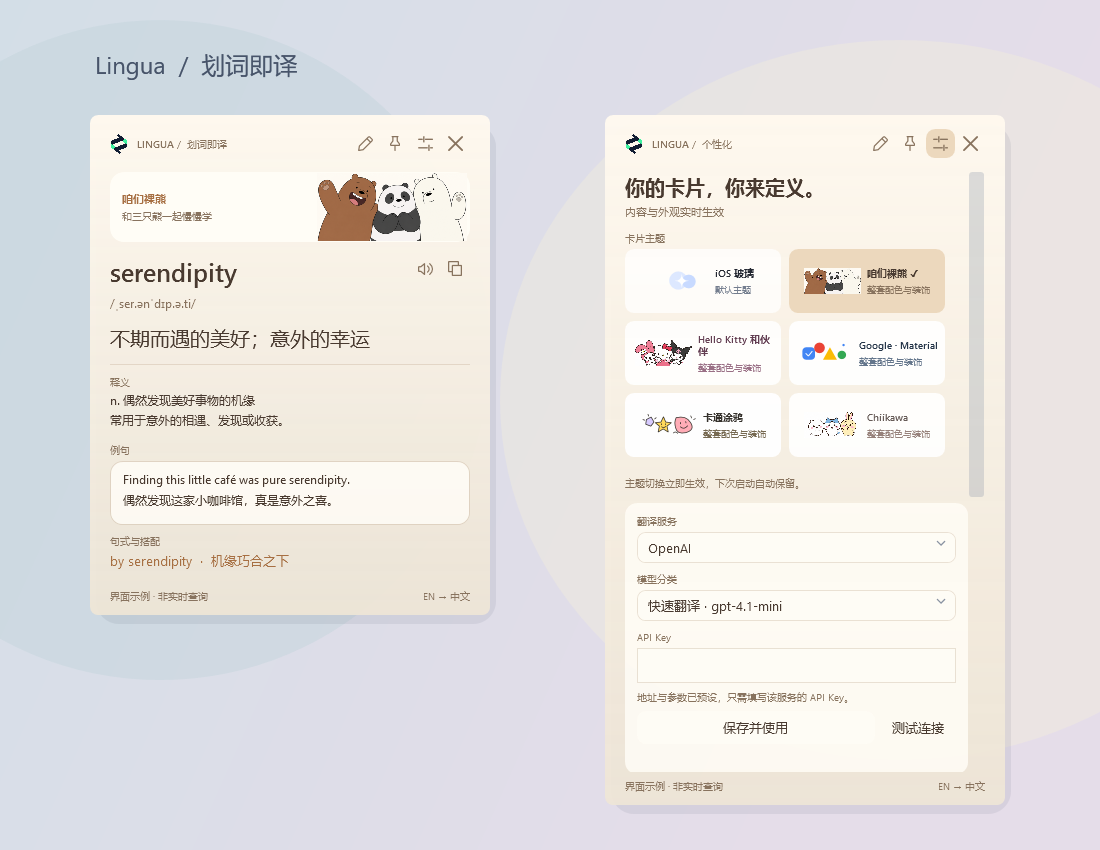
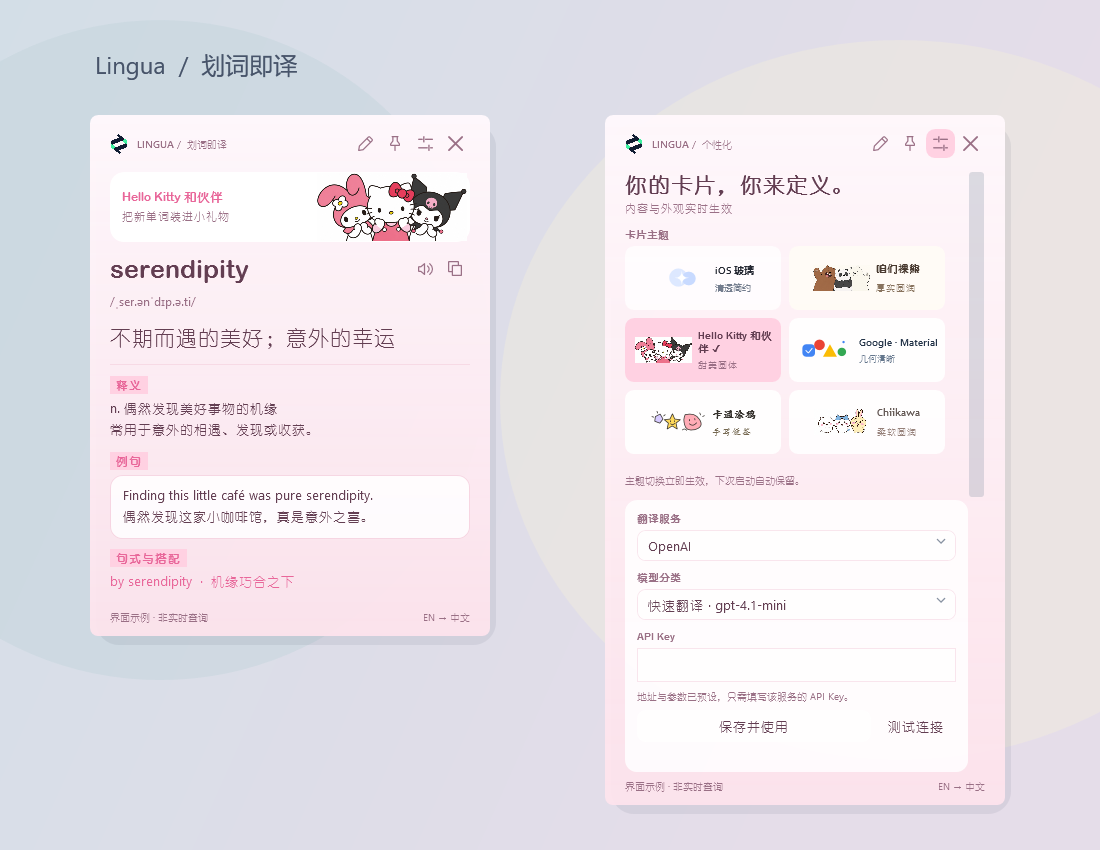
Design typography and text hierarchy for all six card themes

diff --git a/Card.xaml b/Card.xaml
@@ -7,12 +7,12 @@
   <SolidColorBrush x:Key="AccentSoftBrush" Color="#DEE9FF"/>
   <SolidColorBrush x:Key="PanelBrush" Color="#B8FFFFFF"/>
   <SolidColorBrush x:Key="LineBrush" Color="#23748195"/>
-  <Style TargetType="TextBlock"><Setter Property="Foreground" Value="{DynamicResource Ink}"/><Setter Property="TextWrapping" Value="Wrap"/><Setter Property="FontSize" Value="13"/></Style>
-  <Style x:Key="Caption" TargetType="TextBlock"><Setter Property="Foreground" Value="{DynamicResource Muted}"/><Setter Property="FontSize" Value="10"/><Setter Property="Margin" Value="0,0,0,5"/></Style>
-  <Style TargetType="Button"><Setter Property="Cursor" Value="Hand"/><Setter Property="Background" Value="Transparent"/><Setter Property="Foreground" Value="{DynamicResource Ink}"/><Setter Property="Padding" Value="7"/><Setter Property="BorderThickness" Value="0"/><Setter Property="Template"><Setter.Value><ControlTemplate TargetType="Button"><Border x:Name="b" CornerRadius="9" Background="{TemplateBinding Background}" Padding="{TemplateBinding Padding}"><ContentPresenter HorizontalAlignment="Center" VerticalAlignment="Center"/></Border><ControlTemplate.Triggers><Trigger Property="IsMouseOver" Value="True"><Setter TargetName="b" Property="Background" Value="{DynamicResource PanelBrush}"/></Trigger><Trigger Property="IsPressed" Value="True"><Setter TargetName="b" Property="Background" Value="{DynamicResource AccentSoftBrush}"/></Trigger><Trigger Property="IsKeyboardFocused" Value="True"><Setter TargetName="b" Property="BorderBrush" Value="#7194E9"/><Setter TargetName="b" Property="BorderThickness" Value="1"/></Trigger></ControlTemplate.Triggers></ControlTemplate></Setter.Value></Setter></Style>
-  <Style TargetType="CheckBox"><Setter Property="Margin" Value="0,5"/><Setter Property="FontSize" Value="12"/><Setter Property="Foreground" Value="{DynamicResource Ink}"/><Setter Property="Cursor" Value="Hand"/><Setter Property="Template"><Setter.Value><ControlTemplate TargetType="CheckBox"><DockPanel><Border x:Name="track" DockPanel.Dock="Right" Width="30" Height="18" CornerRadius="9" Background="#CCD0D7"><Ellipse x:Name="thumb" Width="14" Height="14" Fill="White" HorizontalAlignment="Left" Margin="2"/></Border><ContentPresenter VerticalAlignment="Center"/></DockPanel><ControlTemplate.Triggers><Trigger Property="IsChecked" Value="True"><Setter TargetName="track" Property="Background" Value="{DynamicResource AccentBrush}"/><Setter TargetName="thumb" Property="HorizontalAlignment" Value="Right"/></Trigger><Trigger Property="IsKeyboardFocused" Value="True"><Setter TargetName="track" Property="BorderBrush" Value="#243F76"/><Setter TargetName="track" Property="BorderThickness" Value="1"/></Trigger></ControlTemplate.Triggers></ControlTemplate></Setter.Value></Setter></Style>
+  <Style TargetType="TextBlock"><Setter Property="FontFamily" Value="{DynamicResource BodyFont}"/><Setter Property="Foreground" Value="{DynamicResource Ink}"/><Setter Property="TextWrapping" Value="Wrap"/><Setter Property="FontSize" Value="13"/></Style>
+  <Style x:Key="Caption" TargetType="TextBlock"><Setter Property="FontFamily" Value="{DynamicResource UiFont}"/><Setter Property="FontWeight" Value="SemiBold"/><Setter Property="Foreground" Value="{DynamicResource Muted}"/><Setter Property="FontSize" Value="10"/><Setter Property="Margin" Value="0,0,0,5"/></Style>
+  <Style TargetType="Button"><Setter Property="FontFamily" Value="{DynamicResource UiFont}"/><Setter Property="Cursor" Value="Hand"/><Setter Property="Background" Value="Transparent"/><Setter Property="Foreground" Value="{DynamicResource Ink}"/><Setter Property="Padding" Value="7"/><Setter Property="BorderThickness" Value="0"/><Setter Property="Template"><Setter.Value><ControlTemplate TargetType="Button"><Border x:Name="b" CornerRadius="9" Background="{TemplateBinding Background}" Padding="{TemplateBinding Padding}"><ContentPresenter HorizontalAlignment="Center" VerticalAlignment="Center"/></Border><ControlTemplate.Triggers><Trigger Property="IsMouseOver" Value="True"><Setter TargetName="b" Property="Background" Value="{DynamicResource PanelBrush}"/></Trigger><Trigger Property="IsPressed" Value="True"><Setter TargetName="b" Property="Background" Value="{DynamicResource AccentSoftBrush}"/></Trigger><Trigger Property="IsKeyboardFocused" Value="True"><Setter TargetName="b" Property="BorderBrush" Value="#7194E9"/><Setter TargetName="b" Property="BorderThickness" Value="1"/></Trigger></ControlTemplate.Triggers></ControlTemplate></Setter.Value></Setter></Style>
+  <Style TargetType="CheckBox"><Setter Property="FontFamily" Value="{DynamicResource UiFont}"/><Setter Property="Margin" Value="0,5"/><Setter Property="FontSize" Value="12"/><Setter Property="Foreground" Value="{DynamicResource Ink}"/><Setter Property="Cursor" Value="Hand"/><Setter Property="Template"><Setter.Value><ControlTemplate TargetType="CheckBox"><DockPanel><Border x:Name="track" DockPanel.Dock="Right" Width="30" Height="18" CornerRadius="9" Background="#CCD0D7"><Ellipse x:Name="thumb" Width="14" Height="14" Fill="White" HorizontalAlignment="Left" Margin="2"/></Border><ContentPresenter VerticalAlignment="Center"/></DockPanel><ControlTemplate.Triggers><Trigger Property="IsChecked" Value="True"><Setter TargetName="track" Property="Background" Value="{DynamicResource AccentBrush}"/><Setter TargetName="thumb" Property="HorizontalAlignment" Value="Right"/></Trigger><Trigger Property="IsKeyboardFocused" Value="True"><Setter TargetName="track" Property="BorderBrush" Value="#243F76"/><Setter TargetName="track" Property="BorderThickness" Value="1"/></Trigger></ControlTemplate.Triggers></ControlTemplate></Setter.Value></Setter></Style>
   <Style TargetType="TextBox"><Setter Property="Background" Value="#96FFFFFF"/><Setter Property="BorderBrush" Value="#C6D2D8E3"/><Setter Property="Padding" Value="8,6"/><Setter Property="FontSize" Value="12"/><Setter Property="Margin" Value="0,4,0,8"/></Style>
-  <Style TargetType="ComboBox"><Setter Property="FontSize" Value="12"/><Setter Property="Template"><Setter.Value><ControlTemplate TargetType="ComboBox"><Grid><ToggleButton Focusable="False" IsChecked="{Binding IsDropDownOpen, RelativeSource={RelativeSource TemplatedParent}, Mode=TwoWay}"><ToggleButton.Template><ControlTemplate TargetType="ToggleButton"><Border Background="{DynamicResource PanelBrush}" CornerRadius="8" BorderThickness="1" BorderBrush="{DynamicResource LineBrush}" Padding="10,8"><Path Data="M0 0 L4 4 L8 0" Stroke="#8892A2" StrokeThickness="1.3" HorizontalAlignment="Right"/></Border></ControlTemplate></ToggleButton.Template></ToggleButton><ContentPresenter Content="{TemplateBinding SelectionBoxItem}" Margin="11,7,28,7" IsHitTestVisible="False"/><Popup x:Name="PART_Popup" IsOpen="{TemplateBinding IsDropDownOpen}" Placement="Bottom" AllowsTransparency="True" Focusable="False" PopupAnimation="Fade"><Border Background="#F3F5F8" CornerRadius="9" Padding="5" MinWidth="200" BorderBrush="#D5DCE6" BorderThickness="1"><ScrollViewer MaxHeight="220"><ItemsPresenter/></ScrollViewer></Border></Popup></Grid></ControlTemplate></Setter.Value></Setter></Style>
+  <Style TargetType="ComboBox"><Setter Property="FontFamily" Value="{DynamicResource UiFont}"/><Setter Property="FontSize" Value="12"/><Setter Property="Template"><Setter.Value><ControlTemplate TargetType="ComboBox"><Grid><ToggleButton Focusable="False" IsChecked="{Binding IsDropDownOpen, RelativeSource={RelativeSource TemplatedParent}, Mode=TwoWay}"><ToggleButton.Template><ControlTemplate TargetType="ToggleButton"><Border Background="{DynamicResource PanelBrush}" CornerRadius="8" BorderThickness="1" BorderBrush="{DynamicResource LineBrush}" Padding="10,8"><Path Data="M0 0 L4 4 L8 0" Stroke="#8892A2" StrokeThickness="1.3" HorizontalAlignment="Right"/></Border></ControlTemplate></ToggleButton.Template></ToggleButton><ContentPresenter Content="{TemplateBinding SelectionBoxItem}" Margin="11,7,28,7" IsHitTestVisible="False"/><Popup x:Name="PART_Popup" IsOpen="{TemplateBinding IsDropDownOpen}" Placement="Bottom" AllowsTransparency="True" Focusable="False" PopupAnimation="Fade"><Border Background="#F3F5F8" CornerRadius="9" Padding="5" MinWidth="200" BorderBrush="#D5DCE6" BorderThickness="1"><ScrollViewer MaxHeight="220"><ItemsPresenter/></ScrollViewer></Border></Popup></Grid></ControlTemplate></Setter.Value></Setter></Style>
   <Style TargetType="Slider"><Setter Property="Height" Value="24"/><Setter Property="Template"><Setter.Value><ControlTemplate TargetType="Slider"><Grid><Border Height="3" Background="#D4DAE3" CornerRadius="2"/><Track x:Name="PART_Track"><Track.DecreaseRepeatButton><RepeatButton Command="Slider.DecreaseLarge" Focusable="False"><RepeatButton.Template><ControlTemplate><Border Height="3" Background="{DynamicResource AccentBrush}" CornerRadius="2"/></ControlTemplate></RepeatButton.Template></RepeatButton></Track.DecreaseRepeatButton><Track.Thumb><Thumb Width="18" Height="18"><Thumb.Template><ControlTemplate><Ellipse Fill="#FFFFFF" Stroke="#C2CDDC" StrokeThickness="1"/></ControlTemplate></Thumb.Template></Thumb></Track.Thumb><Track.IncreaseRepeatButton><RepeatButton Command="Slider.IncreaseLarge" Focusable="False"><RepeatButton.Template><ControlTemplate><Border Background="Transparent"/></ControlTemplate></RepeatButton.Template></RepeatButton></Track.IncreaseRepeatButton></Track></Grid></ControlTemplate></Setter.Value></Setter></Style>
  </Border.Resources>
  <StackPanel>
@@ -28,13 +28,13 @@
      <TextBlock x:Name="Phonetic" Foreground="{DynamicResource Muted}" FontSize="12" Margin="0,0,0,12"/>
      <Border x:Name="Editor" Background="{DynamicResource PanelBrush}" CornerRadius="12" Padding="8" Margin="0,0,0,10" Visibility="Collapsed"><StackPanel><TextBox x:Name="Input" AcceptsReturn="True" MaxLength="2000" Height="66" TextWrapping="Wrap" VerticalScrollBarVisibility="Auto"/><Button x:Name="Submit" Content="翻译  ↵" HorizontalAlignment="Right" Padding="14,6" Background="{DynamicResource PanelBrush}"/></StackPanel></Border>
      <StackPanel x:Name="TranslationSection" Margin="0,0,0,13"><TextBlock x:Name="Translation" Text="选中一段文字，翻译会自动浮现。" FontSize="20" FontWeight="Medium" LineHeight="28"/></StackPanel>
-     <Border x:Name="DetailsSection" BorderBrush="{DynamicResource LineBrush}" BorderThickness="0,1,0,0" Padding="0,11,0,0" Margin="0,0,0,11"><StackPanel><TextBlock Text="释义" Style="{StaticResource Caption}"/><TextBlock x:Name="Details" LineHeight="20"/></StackPanel></Border>
-     <StackPanel x:Name="ExamplesSection" Margin="0,0,0,10"><TextBlock Text="例句" Style="{StaticResource Caption}"/><Border x:Name="ExampleSurface" Background="{DynamicResource PanelBrush}" BorderBrush="{DynamicResource LineBrush}" BorderThickness="1" CornerRadius="12" Padding="12,10"><TextBlock x:Name="Examples" LineHeight="21"/></Border></StackPanel>
-     <StackPanel x:Name="StructureSection" Margin="0,0,0,10"><TextBlock Text="句式与搭配" Style="{StaticResource Caption}"/><TextBlock x:Name="Structure" Foreground="{DynamicResource AccentBrush}" LineHeight="20"/></StackPanel>
+     <Border x:Name="DetailsSection" BorderBrush="{DynamicResource LineBrush}" BorderThickness="0,1,0,0" Padding="0,11,0,0" Margin="0,0,0,11"><StackPanel><TextBlock x:Name="DetailsCaption" Text="释义" Style="{StaticResource Caption}"/><TextBlock x:Name="Details" LineHeight="20"/></StackPanel></Border>
+     <StackPanel x:Name="ExamplesSection" Margin="0,0,0,10"><TextBlock x:Name="ExamplesCaption" Text="例句" Style="{StaticResource Caption}"/><Border x:Name="ExampleSurface" Background="{DynamicResource PanelBrush}" BorderBrush="{DynamicResource LineBrush}" BorderThickness="1" CornerRadius="12" Padding="12,10"><TextBlock x:Name="Examples" LineHeight="21"/></Border></StackPanel>
+     <StackPanel x:Name="StructureSection" Margin="0,0,0,10"><TextBlock x:Name="StructureCaption" Text="句式与搭配" Style="{StaticResource Caption}"/><TextBlock x:Name="Structure" Foreground="{DynamicResource AccentBrush}" LineHeight="20"/></StackPanel>
      <TextBlock x:Name="Notice" Text="点击右上角，自定义你的学习卡片。" Foreground="{DynamicResource Muted}" FontSize="11" Margin="0,1,0,10"/>
     </StackPanel>
     <StackPanel x:Name="Preferences" Visibility="Collapsed">
-     <TextBlock Text="你的卡片，你来定义。" FontSize="20" FontWeight="SemiBold" Margin="0,0,0,5"/><TextBlock Text="内容与外观实时生效" FontSize="11" Foreground="{DynamicResource Muted}" Margin="0,0,0,14"/>
+     <TextBlock x:Name="PreferencesTitle" Text="你的卡片，你来定义。" FontSize="20" FontWeight="SemiBold" Margin="0,0,0,5"/><TextBlock Text="内容与外观实时生效" FontSize="11" Foreground="{DynamicResource Muted}" Margin="0,0,0,14"/>
      <TextBlock Text="卡片主题" Style="{StaticResource Caption}"/><WrapPanel x:Name="ThemeGallery" Margin="0,0,0,12"/><TextBlock Text="主题切换立即生效，下次启动自动保留。" FontSize="10" Foreground="{DynamicResource Muted}" Margin="0,0,0,14"/>
      <Border CornerRadius="12" Background="{DynamicResource PanelBrush}" Padding="12" Margin="0,0,0,14"><StackPanel>
       <TextBlock Text="翻译服务" Style="{StaticResource Caption}"/><ComboBox x:Name="Service" Margin="0,0,0,10"/>

diff --git a/GlassWindow.cs b/GlassWindow.cs
@@ -135,17 +135,34 @@ class GlassWindow : Window {
   Foreground=Themes.Brush(theme.Ink);FontFamily=new FontFamily(theme.Font);foreach(var pen in iconPens){pen.Brush=Themes.Brush(theme.Muted);pen.Thickness=theme.Id=="doodle"?2.1:1.65;}
   var example=Find<Border>("ExampleSurface");example.CornerRadius=new CornerRadius(theme.Id=="google"?18:theme.Id=="doodle"?5:12);example.BorderThickness=new Thickness(theme.Id=="doodle"?1.7:1);
   Find<Image>("ThemeArt").Source=Themes.Illustration(theme.Id);Find<Border>("ThemeBanner").Background=Themes.Brush(theme.Id=="bears"?"#FFFDF6":theme.Id=="kitty"||theme.Id=="chiikawa"?"#FFFFFF":theme.Panel);Set("ThemeName",theme.Name);Set("ThemeSubtitle",theme.Subtitle);Visible("ThemeBanner",theme.Id!="ios");
-  Find<TextBlock>("Original").FontWeight=theme.Id=="google"?FontWeights.Medium:FontWeights.SemiBold;
+  ApplyTypography(theme);
   if(pinButton!=null)pinButton.Background=pinned?Themes.Brush(theme.Soft):Brushes.Transparent;if(settingsButton!=null)settingsButton.Background=preferences?Themes.Brush(theme.Soft):Brushes.Transparent;
   foreach(var b in themeButtons){var t=(CardTheme)b.Tag;b.Background=Themes.Brush(t.Id==theme.Id?t.Soft:t.Panel);var text=((StackPanel)((Grid)b.Content).Children[1]).Children[0] as TextBlock;text.Text=t.Name+(t.Id==theme.Id?" ✓":"");}
   shell.Padding=cfg.Compact?new Thickness(20,14,20,13):new Thickness(24,20,24,20);Width=cfg.Compact?400:440;
-  Find<TextBlock>("Details").FontSize=cfg.Compact?12:14;Find<TextBlock>("Examples").FontSize=cfg.Compact?12:14;
   if(initialized)Fit();
+ }
+ void ApplyTypography(CardTheme theme){
+  var type=Themes.Typography(theme.Id);var title=new FontFamily(type.Title);var body=new FontFamily(type.Body);var ui=new FontFamily(type.UI);
+  FontFamily=ui;shell.Resources["BodyFont"]=body;shell.Resources["UiFont"]=ui;
+  TextOptions.SetTextFormattingMode(shell,TextFormattingMode.Display);TextOptions.SetTextRenderingMode(shell,TextRenderingMode.Grayscale);
+  var original=Find<TextBlock>("Original");original.FontFamily=title;original.FontSize=type.Heading+(cfg.Compact?0:2);original.FontWeight=type.Weight;original.LineHeight=original.FontSize+8;
+  var translation=Find<TextBlock>("Translation");translation.FontFamily=body;translation.FontSize=type.Translation;translation.FontWeight=theme.Id=="bears"?FontWeights.Bold:FontWeights.Medium;translation.LineHeight=type.Translation+9;
+  foreach(var name in new[]{"Details","Examples","Structure"}){var text=Find<TextBlock>(name);text.FontFamily=body;text.FontSize=type.BodySize+(cfg.Compact?0:1);text.LineHeight=type.Leading+(cfg.Compact?0:2);}
+  Find<TextBlock>("Phonetic").FontFamily=new FontFamily("Segoe UI, Microsoft YaHei UI");Find<TextBlock>("Phonetic").FontSize=12;
+  foreach(var name in new[]{"ThemeName","PreferencesTitle"}){var text=Find<TextBlock>(name);text.FontFamily=title;text.FontWeight=type.Weight;text.FontSize=name=="ThemeName"?12:21;}
+  Find<TextBlock>("ThemeSubtitle").FontFamily=ui;Find<TextBlock>("ThemeSubtitle").FontSize=11;
+  foreach(var name in new[]{"DetailsCaption","ExamplesCaption","StructureCaption"}){
+   var label=Find<TextBlock>(name);bool chip=theme.Id=="kitty"||theme.Id=="chiikawa"||theme.Id=="bears";
+   label.FontFamily=ui;label.FontSize=theme.Id=="doodle"?12:11;label.FontWeight=FontWeights.Bold;label.Foreground=Themes.Brush(theme.Id=="ios"?theme.Muted:theme.Accent);
+   label.Background=chip?Themes.Brush(theme.Soft):Brushes.Transparent;label.Padding=chip?new Thickness(6,2,6,2):new Thickness(0);label.HorizontalAlignment=HorizontalAlignment.Left;
+   label.TextDecorations=theme.Id=="doodle"?TextDecorations.Underline:null;
+  }
+  foreach(var name in new[]{"Endpoint","Model","Input"})Find<TextBox>(name).FontFamily=new FontFamily("Segoe UI, Microsoft YaHei UI");
  }
  void TogglePreferences(bool? value=null){preferences=value??!preferences;Visible("Preferences",preferences);Visible("Reading",!preferences);settingsButton.Background=preferences?(Brush)shell.Resources["AccentSoftBrush"]:Brushes.Transparent;Set("Mode",preferences?" /  个性化":" /  划词即译");Fit();}
  void SetupThemeGallery(){
   foreach(var theme in Themes.All){var t=theme;var grid=new Grid();grid.ColumnDefinitions.Add(new ColumnDefinition {Width=new GridLength(58)});grid.ColumnDefinitions.Add(new ColumnDefinition());grid.Children.Add(new Image {Source=Themes.Illustration(t.Id),Width=57,Height=42});
-   var labels=new StackPanel {VerticalAlignment=VerticalAlignment.Center,Margin=new Thickness(5,0,0,0)};labels.Children.Add(new TextBlock {Text=t.Name,FontSize=10,FontWeight=FontWeights.SemiBold,Foreground=Themes.Brush(t.Ink),TextWrapping=TextWrapping.Wrap});labels.Children.Add(new TextBlock {Text=t.Id=="ios"?"默认主题":"整套配色与装饰",FontSize=9,Foreground=Themes.Brush(t.Muted),Margin=new Thickness(0,4,0,0)});Grid.SetColumn(labels,1);grid.Children.Add(labels);
+   var labels=new StackPanel {VerticalAlignment=VerticalAlignment.Center,Margin=new Thickness(5,0,0,0)};labels.Children.Add(new TextBlock {Text=t.Name,FontFamily=new FontFamily(Themes.Typography(t.Id).UI),FontSize=10,FontWeight=FontWeights.SemiBold,Foreground=Themes.Brush(t.Ink),TextWrapping=TextWrapping.Wrap});labels.Children.Add(new TextBlock {Text=Themes.Typography(t.Id).Label,FontFamily=new FontFamily(Themes.Typography(t.Id).UI),FontSize=9,Foreground=Themes.Brush(t.Muted),Margin=new Thickness(0,4,0,0)});Grid.SetColumn(labels,1);grid.Children.Add(labels);
    var button=new Button {Content=grid,Tag=t,Width=156,Height=64,Margin=new Thickness(0,0,8,8),Padding=new Thickness(6),ToolTip=t.Name+" · "+t.Subtitle};button.Click+=(s,e)=>{cfg.ThemeId=t.Id;ApplyAppearance();Save();};themeButtons.Add(button);Find<WrapPanel>("ThemeGallery").Children.Add(button);
   }
  }

diff --git a/Themes.cs b/Themes.cs
@@ -12,6 +12,21 @@ public class CardTheme {
  public CardTheme(string id,string name,string subtitle,string top,string bottom,string ink,string muted,string accent,string soft,string panel,string line,string font="Segoe UI, Microsoft YaHei UI") {Id=id;Name=name;Subtitle=subtitle;Top=top;Bottom=bottom;Ink=ink;Muted=muted;Accent=accent;Soft=soft;Panel=panel;Line=line;Font=font;}
 }
 static class Themes {
+ public sealed class TypeStyle {
+  public string Title,Body,UI,Label; public double Heading,Translation,BodySize,Leading; public FontWeight Weight;
+  public TypeStyle(string title,string body,string ui,string label,double heading,double translation,double size,double leading,FontWeight weight){Title=title;Body=body;UI=ui;Label=label;Heading=heading;Translation=translation;BodySize=size;Leading=leading;Weight=weight;}
+ }
+ public static TypeStyle Typography(string id){
+  const string fallback=", Microsoft YaHei UI, 微软雅黑, Segoe UI";
+  switch(id){
+   case "bears": return new TypeStyle("Trebuchet MS, YouYuan, 幼圆"+fallback,"Trebuchet MS, YouYuan, 幼圆"+fallback,"Trebuchet MS, YouYuan, 幼圆"+fallback,"厚实圆润",26,21,13,21,FontWeights.Bold);
+   case "kitty": return new TypeStyle("Arial Rounded MT Bold, YouYuan, 幼圆"+fallback,"Segoe UI, YouYuan, 幼圆"+fallback,"Arial, YouYuan, 幼圆"+fallback,"甜美圆体",25,21,13,21,FontWeights.Normal);
+   case "google": return new TypeStyle("Bahnschrift, Segoe UI, DengXian, 等线"+fallback,"Segoe UI, DengXian, 等线"+fallback,"Segoe UI, DengXian, 等线"+fallback,"几何清晰",27,20,13,21,FontWeights.Medium);
+   case "doodle": return new TypeStyle("Comic Sans MS, KaiTi, 楷体"+fallback,"Comic Sans MS, KaiTi, 楷体"+fallback,"Comic Sans MS, KaiTi, 楷体"+fallback,"手写便签",25,22,14,23,FontWeights.Bold);
+   case "chiikawa": return new TypeStyle("Arial Rounded MT Bold, YouYuan, 幼圆"+fallback,"Trebuchet MS, YouYuan, 幼圆"+fallback,"Trebuchet MS, YouYuan, 幼圆"+fallback,"柔软圆润",24,21,13,22,FontWeights.Normal);
+   default: return new TypeStyle("Segoe UI Variable Display, Segoe UI"+fallback,"Segoe UI Variable Text, Segoe UI"+fallback,"Segoe UI Variable Text, Segoe UI"+fallback,"清透简约",25,20,12.5,20,FontWeights.SemiBold);
+  }
+ }
  public static readonly CardTheme[] All={
   new CardTheme("ios","iOS 玻璃","清透、轻盈、专注","#FFFFFF","#EEF3FD","#242832","#737D8E","#3478F6","#DEE9FF","#B8FFFFFF","#23748195"),
   new CardTheme("bears","咱们裸熊","和三只熊一起慢慢学","#FFF9EF","#EFE6D6","#493A30","#88735E","#A76F42","#ECD8BD","#D9FFFDF6","#38A68565"),

diff --git a/使用说明.md b/使用说明.md
@@ -1,4 +1,4 @@
-# Lingua · 玻璃划词卡片 v2.3.1
+# Lingua · 玻璃划词卡片 v2.4.0
 
 ## 六套卡片主题
 
@@ -102,3 +102,9 @@ powershell -NoProfile -ExecutionPolicy Bypass -File .\build.ps1
 界面测试检查了不抢焦点、直接查询模式迁移、六项开关、卡片高度收缩、设置切换、透明程度、SVG 加载、系统边框关闭、圆角一致及只填 Key 的配置流程。离线测试验证各模型预设参数、Key 隔离与加密、旧配置迁移。编译和测试记录随包提供。没有真实 AI Key，因此未声称已验证三个服务商的在线鉴权、额度或实际模型结果；也未声称所有外部应用均兼容。
 
 技术参考：[Desktop Acrylic](https://learn.microsoft.com/en-us/windows/win32/api/dwmapi/ne-dwmapi-dwm_systembackdrop_type)、[MyMemory](https://mymemory.translated.net/doc/spec.php)、[Free Dictionary API](https://dictionaryapi.dev/)。
+
+## 主题字体与排版
+
+六套主题同时切换单词标题、中文译文、正文、分区标签和控件字体。iOS 清透简约；裸熊厚实圆润；Hello Kitty 甜美圆体；Google 几何清晰；涂鸦手写便签；Chiikawa 柔软圆润。音标与输入区域使用清晰的常规字体。
+
+字体使用 Windows 已安装字体，不打包第三方字体。缺少指定字体时自动回退到微软雅黑或 Segoe UI，不同设备上的字形可能略有不同。

diff --git a/README.md b/README.md
@@ -6,7 +6,7 @@
 
 ## 下载与运行
 
-在本仓库的 **Releases** 下载 `LinguaSelect-v2.3.1-Windows.zip`，解压后双击 `LinguaSelect.exe`。
+在本仓库的 **Releases** 下载 `LinguaSelect-v2.4.0-Windows.zip`，解压后双击 `LinguaSelect.exe`。
 
 - Windows 10 / 11，需 .NET Framework 4.8。
 - Windows 11 22H2 及以后支持系统 Acrylic 背景；其他环境使用半透明卡片回退。
@@ -28,7 +28,7 @@
 
 ## 卡片主题
 
-右上角「自定义」→「卡片主题」即可切换。每套包含配色、控件样式和内置插画。咱们裸熊、Hello Kitty 和伙伴、Chiikawa 使用 AI 生成的 PNG 角色素材；其他主题保留 SVG。角色与品牌主题为非官方设计。
+右上角「自定义」→「卡片主题」即可切换。每套包含配色、控件样式、主题字体排版和内置插画。标题、中文译文、正文、标签和设置控件随主题变化；音标保持常规字体。使用 Windows 已安装字体，缺失时自动回退。咱们裸熊、Hello Kitty 和伙伴、Chiikawa 使用 AI 生成的 PNG 角色素材；其他主题保留 SVG。角色与品牌主题为非官方设计。
 
 ![六套卡片主题，使用示例文本](主题总览.png)
 
